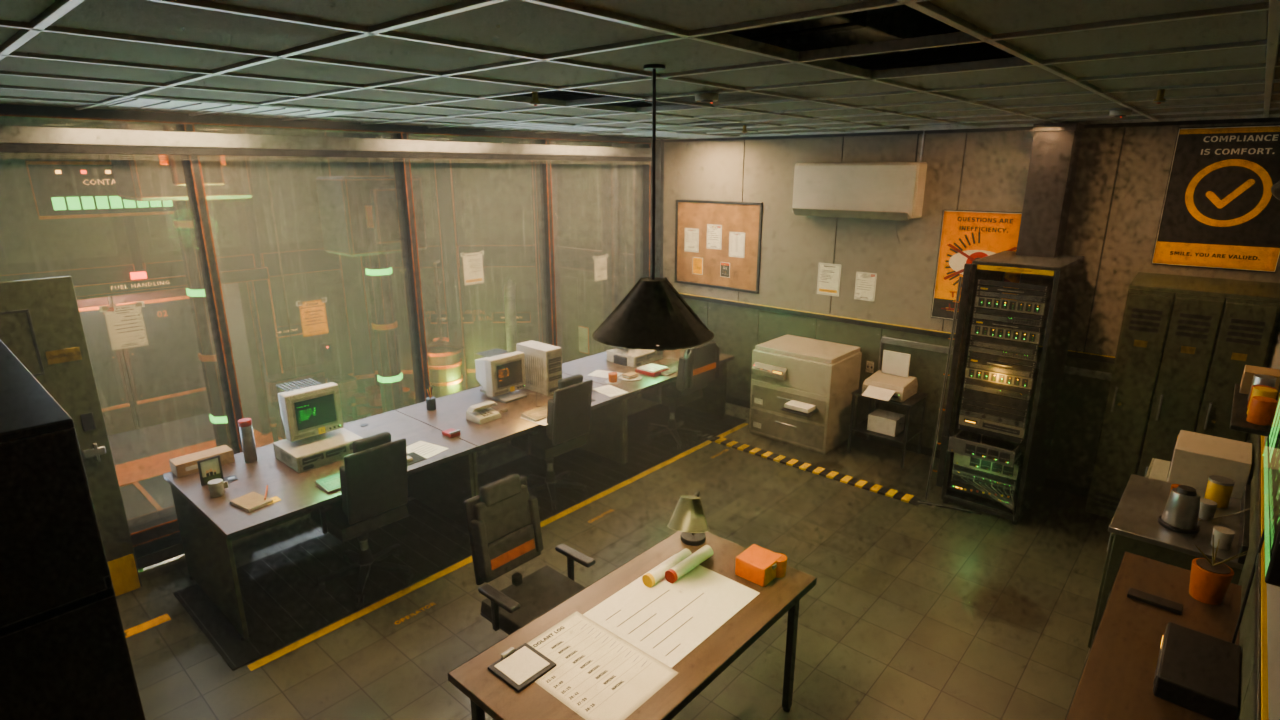
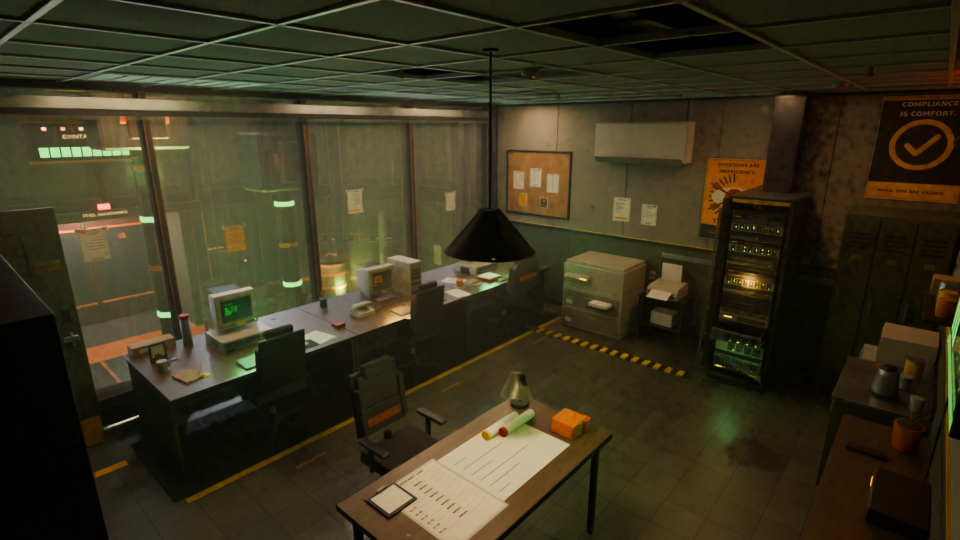
Control room: darker, eerier lighting with constant flicker and brownout dips (seconds based)
Claude-Session: https://claude.ai/code/session_01MZn6W3mktoSNAd4EhQyGwJ

diff --git a/sections/reactor-room/production/overhaul-R1/scripts/cr_light.py b/sections/reactor-room/production/overhaul-R1/scripts/cr_light.py
@@ -14,28 +14,27 @@ def beacons(c):
         if face=='+x': A.prism((g,"BEACON"),(p+0.025,l_,z),(p+0.105,l_,z),0.055,0.045,24,0,True); loc=(p+0.14,l_,z)
         else: A.prism((g,"BEACON"),(l_,p+0.025,z),(l_,p+0.105,z),0.055,0.045,24,0,True); loc=(l_,p+0.14,z)
         A.prism((g,"STEEL"),(loc[0]-(0.135 if face=='+x' else 0),loc[1]-(0.135 if face=='+y' else 0),loc[2]-0.06),(loc[0]-(0.135 if face=='+x' else 0),loc[1]-(0.135 if face=='+y' else 0),loc[2]+0.06),0.004,0.004,6) if False else None
-        ex="45*max(0,(0.5-s)*2)*(0.35+0.65*max(0,sin(frame*0.45)))"
+        ex="40*max(0.15,(0.5-s)*2)*(0.35+0.65*max(0,sin(frame*0.45)))"
         crk.light(co,f"CR beacon {face}",loc,(1.0,0.10,0.04),45,'POINT',soft=0.05,expr=ex,var_s=True)
 def build(c):
     co=c.coll; L=crk.light
     # key zone 1: three troffers over the operator desks (third tube is dying)
-    F="max(0,sin(frame*2.7)*sin(frame*0.53)*sin(frame*0.19+1)-0.42)*3.0"
     for (x,fl) in ((-3.0,False),(-0.6,False),(1.2,True)):                      # key zone 1: troffers follow the reactor (stability s): dimmer and stuttering as it falls
-        e=(f"{K.get('troffer',68)}*(0.55+0.45*s)*max(0.03,1-(0.85+0.15*(1-s))*{F})" if fl else f"{K.get('troffer',68)}*(0.55+0.45*s)*max(0.04,1-0.9*(1-s)*{F})")
-        L(co,f"CR troffer {x}",(x,-7.06,8.47),WARM,K.get("troffer",68),'AREA',DOWN,size=(1.15,0.55),expr=e,var_s=True)
+        e=(f"{K.get('troffer',32)}*(0.5+0.3*s)*max(0.03,1-(0.85+0.15*(1-s))*fk)*(1-0.7*bw)" if fl else f"{K.get('troffer',32)}*(0.5+0.3*s)*max(0.04,1-0.9*max(0.4,1-s)*fk)*(1-0.7*bw)")
+        L(co,f"CR troffer {x}",(x,-7.06,8.47),WARM,K.get("troffer",32),'AREA',DOWN,size=(1.15,0.55),expr=e,var_s=True)
     # key zone 2: rack batten + pendant over the work table
-    L(co,"CR rack batten",(1.25,-10.3,8.47),WARM2,K.get("rack",62),'AREA',DOWN,size=(1.1,0.16))
+    L(co,"CR rack batten",(1.25,-10.3,8.47),WARM2,K.get("rack",30),'AREA',DOWN,size=(1.1,0.16),expr="%s*(1-0.6*fk*0.5)*(1-0.6*bw)"%K.get("rack",30),var_s=False)
     px,py,pz=c.PENDANT
-    wp=L(co,"CR work pendant",(px,py,pz-0.004),WARM,K.get("pendant",36),'AREA',DOWN,size=(0.45,0.45)); wp.data.shape='DISK'       # disc light at the diffuser (a small spot here sparkled)
-    L(co,"CR work lamp",c.WORKLAMP,WARM,K.get("worklamp",25),'SPOT',(math.radians(160),0,math.radians(30)),spot=70,blend=0.6,soft=0.03)
-    L(co,"CR desk lamp",c.DESKLAMP,WARM,K.get("desklamp",35),'SPOT',(math.radians(150),0,math.radians(-30)),spot=75,blend=0.6,soft=0.03)
+    wp=L(co,"CR work pendant",(px,py,pz-0.004),WARM,K.get("pendant",20),'AREA',DOWN,size=(0.45,0.45)); wp.data.shape='DISK'       # disc light at the diffuser (a small spot here sparkled)
+    L(co,"CR work lamp",c.WORKLAMP,WARM,K.get("worklamp",22),'SPOT',(math.radians(160),0,math.radians(30)),spot=70,blend=0.6,soft=0.03)
+    L(co,"CR desk lamp",c.DESKLAMP,WARM,K.get("desklamp",30),'SPOT',(math.radians(150),0,math.radians(-30)),spot=75,blend=0.6,soft=0.03)
     # cool window spill + door spill from the landing
-    L(co,"CR window spill",(-1.4,-6.35,7.2),COOL,K.get("window",72),'AREA',(-math.pi/2,0,0),size=(5.4,2.2))
-    L(co,"CR door spill",(-5.15,-6.8,6.7),COOL,K.get("door",28),'AREA',(0,math.pi/2,0),size=(0.9,1.8))
+    L(co,"CR window spill",(-1.4,-6.35,7.2),COOL,K.get("window",26),'AREA',(-math.pi/2,0,0),size=(5.4,2.2))
+    L(co,"CR door spill",(-5.15,-6.8,6.7),COOL,K.get("door",12),'AREA',(0,math.pi/2,0),size=(0.9,1.8))
     # low warm bounce so far corners stay readable (but darker)
-    L(co,"CR back fill",(-1.4,-10.3,8.4),WARM,K.get("fill",4.8),'AREA',DOWN,size=(5.0,2.4))
+    L(co,"CR back fill",(-1.4,-10.3,8.4),WARM,K.get("fill",1.0),'AREA',DOWN,size=(5.0,2.4))
     # accents: CRT phosphor glows and rack LEDs
     for cx,col in ((-2.75,(0.2,1.0,0.3)),(-1.05,(1.0,0.55,0.1)),(0.65,(0.2,1.0,0.3))):
-        L(co,f"CR crt glow {cx}",(cx,-7.15,6.50),col,K.get("crt",7),'AREA',(-math.pi/2,0,0),size=(0.30,0.22),expr="7*(0.92+0.08*sin(frame*1.7))")
+        L(co,f"CR crt glow {cx}",(cx,-7.15,6.50),col,K.get("crt",7),'AREA',(-math.pi/2,0,0),size=(0.30,0.22),expr="7*(0.92+0.08*sin(frame*1.7))*(1-0.5*bw)")
     L(co,"CR rack glow low",(0.98,-10.35,5.95),(0.3,1.0,0.35),K.get("rackglow",3.0),'POINT',soft=0.05)
     L(co,"CR rack glow mid",(0.98,-10.35,6.60),(1.0,0.55,0.12),K.get("rackglow",3.0),'POINT',soft=0.05)

diff --git a/sections/reactor-room/production/overhaul-R1/scripts/cr_mats.py b/sections/reactor-room/production/overhaul-R1/scripts/cr_mats.py
@@ -67,19 +67,18 @@ def make(R):
     M["LED_ON"]=emit_mat("CR led steady green",(0.12,1.0,0.16),3.0)
     M["LED_AON"]=emit_mat("CR led steady amber",(1.0,0.50,0.04),3.0)
     M["LED_RON"]=emit_mat("CR led steady red",(1.0,0.06,0.04),3.0)
-    M["TUBE"]=emit_mat("CR tungsten tube",(1.0,0.66,0.34),7.0,TUBE_EXPR,use_s=True)
-    M["TUBE_F"]=emit_mat("CR tungsten tube dying",(1.0,0.66,0.34),7.0,TUBE_EXPR_DYING,use_s=True)
+    M["TUBE"]=emit_mat("CR tungsten tube",(1.0,0.66,0.34),5.0,TUBE_EXPR,use_s=True)
+    M["TUBE_F"]=emit_mat("CR tungsten tube dying",(1.0,0.66,0.34),5.0,TUBE_EXPR_DYING,use_s=True)
     M["BEACON"]=emit_mat("CR emergency beacon",(1.0,0.10,0.04),9.0,BEACON_EXPR,base=(0.12,0.01,0.01),use_s=True)
     M["TUBE_OFF"]=pm("CR tube dead",(0.30,0.28,0.22),0.4,scale=2.0,bump=0.0)
     M["BULB"]=emit_mat("CR bulb",(1.0,0.66,0.32),9.0)
     M["LAMPFACE"]=emit_mat("CR panel light",(1.0,0.72,0.44),1.6)
     return M
 # troffers follow the reactor: steady tubes dim and stutter as stability falls; the dying tube is always unreliable and gets worse
-_F="max(0,sin(frame*2.7)*sin(frame*0.53)*sin(frame*0.19+1)-0.42)*3.0"
-TUBE_EXPR=f"7.0*(0.55+0.45*s)*max(0.04,1-0.9*(1-s)*{_F})"
-TUBE_EXPR_DYING=f"7.0*(0.55+0.45*s)*max(0.03,1-(0.85+0.15*(1-s))*{_F})"
-BEACON_EXPR="9.0*max(0,(0.5-s)*2)*(0.35+0.65*max(0,sin(frame*0.45)))"
-FLICKER="7.0*(1-0.85*max(0,sin(frame*2.7)*sin(frame*0.53)*sin(frame*0.19+1)-0.42)*3.0)"
+TUBE_EXPR="5.0*(0.5+0.3*s)*max(0.04,1-0.9*max(0.4,1-s)*fk)*(1-0.7*bw)"
+TUBE_EXPR_DYING="5.0*(0.5+0.3*s)*max(0.03,1-(0.85+0.15*(1-s))*fk)*(1-0.7*bw)"
+BEACON_EXPR="9.0*max(0.15,(0.5-s)*2)*(0.35+0.65*max(0,sin(frame*0.45)))"
+FLICKER="7.0*(1-0.85*fk)"
 def _blink(R):
     a,b,p,q=R.uniform(0.35,1.6),R.uniform(0.11,0.6),R.uniform(0,6.3),R.uniform(0,6.3)
     return f"4.5*max(0.03,min(1.0,(sin(frame*{a:.3f}+{p:.2f})+sin(frame*{b:.3f}+{q:.2f}))*3.2-1.6))"

diff --git a/sections/reactor-room/production/overhaul-R1/scripts/crk.py b/sections/reactor-room/production/overhaul-R1/scripts/crk.py
@@ -218,6 +218,14 @@ def to_seconds(expr):
     import re
     e=re.sub(r'\bframe\b','(T*30)',expr)
     return re.sub(r'\bT\b','(frame*fb/fps)',e)
+import re
+def setup_flicker():
+    """two shared time signals on REACTOR_STATE: cr_flick (fast tube stutter bursts) and cr_brown (slow brownout dips, ~0..1); both in seconds"""
+    for nm,ex in (("cr_flick","max(0,sin(T*81)*sin(T*15.9)*sin(T*5.7+1)-0.42)*3"),("cr_brown","max(0,sin(T*2.1)*sin(T*5.3+1)-0.45)*1.8")):
+        STATE[nm]=0.0
+        try: STATE.driver_remove('["%s"]'%nm)
+        except Exception: pass
+        drv(STATE,'["%s"]'%nm,None,ex,var_s=False)
 def drv(idblock,path,idx,expr,var_s=True,extra=None):
     fc=idblock.driver_add(path,idx) if idx is not None else idblock.driver_add(path)
     d=fc.driver; d.type='SCRIPTED'
@@ -225,6 +233,9 @@ def drv(idblock,path,idx,expr,var_s=True,extra=None):
         v=d.variables.new(); v.name='s'; v.type='SINGLE_PROP'; v.targets[0].id=STATE; v.targets[0].data_path='["stability"]'
     for (nm,ident,dp) in (extra or []):
         v=d.variables.new(); v.name=nm; v.type='SINGLE_PROP'; v.targets[0].id=ident; v.targets[0].data_path=dp
+    for nm,pr in (("fk","cr_flick"),("bw","cr_brown")):          # shared flicker / brownout signals (props on REACTOR_STATE, see setup_flicker)
+        if re.search(r'\b%s\b'%nm,expr) and not any(v.name==nm for v in d.variables):
+            v=d.variables.new(); v.name=nm; v.type='SINGLE_PROP'; v.targets[0].id=STATE; v.targets[0].data_path='["%s"]'%pr
     ex=to_seconds(expr)
     if ex!=expr: _fps_vars(d)
     d.expression=ex; return fc

diff --git a/sections/reactor-room/production/overhaul-R1/scripts/cr_build.py b/sections/reactor-room/production/overhaul-R1/scripts/cr_build.py
@@ -6,7 +6,7 @@ import crk,crt,cr_pal,cr_mats,cr_shell,cr_desk,cr_props1,cr_props2,cr_tv,cr_ligh
 A_=sys.argv[sys.argv.index("--")+1:]; SRC,DST=A_[0],A_[1]; STAGE=A_[2] if len(A_)>2 else "all"
 bpy.ops.wm.open_mainfile(filepath=SRC); sc=bpy.context.scene
 print("PAL",cr_pal.retune())
-crk.STATE=bpy.data.objects["REACTOR_STATE"]
+crk.STATE=bpy.data.objects["REACTOR_STATE"]; crk.setup_flicker()
 def ext(o):
     p=[o.matrix_world@Vector(v) for v in o.bound_box]
     return (min(q.x for q in p),max(q.x for q in p),min(q.y for q in p),max(q.y for q in p),min(q.z for q in p),max(q.z for q in p))

diff --git a/sections/reactor-room/production/overhaul-R1/control_room_runtime_behaviour.md b/sections/reactor-room/production/overhaul-R1/control_room_runtime_behaviour.md
@@ -7,14 +7,15 @@ Generated by `cr_runtime_spec.py` from the authoring blend. Spec only: not an en
 
 | owner | target | expression (T in seconds) |
 |---|---|---|
-| CR beacon +x | `energy[0]` | `45*max(0,(0.5-s)*2)*(0.35+0.65*max(0,sin((T*30)*0.45)))` |
-| CR beacon +y | `energy[0]` | `45*max(0,(0.5-s)*2)*(0.35+0.65*max(0,sin((T*30)*0.45)))` |
-| CR crt glow -1.05 | `energy[0]` | `7*(0.92+0.08*sin((T*30)*1.7))` |
-| CR crt glow -2.75 | `energy[0]` | `7*(0.92+0.08*sin((T*30)*1.7))` |
-| CR crt glow 0.65 | `energy[0]` | `7*(0.92+0.08*sin((T*30)*1.7))` |
-| CR troffer -0.6 | `energy[0]` | `68*(0.55+0.45*s)*max(0.04,1-0.9*(1-s)*max(0,sin((T*30)*2.7)*sin((T*30)*0.53)*sin((T*30)*0.19+1)-0.42)*3.0)` |
-| CR troffer -3.0 | `energy[0]` | `68*(0.55+0.45*s)*max(0.04,1-0.9*(1-s)*max(0,sin((T*30)*2.7)*sin((T*30)*0.53)*sin((T*30)*0.19+1)-0.42)*3.0)` |
-| CR troffer 1.2 | `energy[0]` | `68*(0.55+0.45*s)*max(0.03,1-(0.85+0.15*(1-s))*max(0,sin((T*30)*2.7)*sin((T*30)*0.53)*sin((T*30)*0.19+1)-0.42)*3.0)` |
+| CR beacon +x | `energy[0]` | `40*max(0.15,(0.5-s)*2)*(0.35+0.65*max(0,sin((T*30)*0.45)))` |
+| CR beacon +y | `energy[0]` | `40*max(0.15,(0.5-s)*2)*(0.35+0.65*max(0,sin((T*30)*0.45)))` |
+| CR crt glow -1.05 | `energy[0]` | `7*(0.92+0.08*sin((T*30)*1.7))*(1-0.5*bw)` |
+| CR crt glow -2.75 | `energy[0]` | `7*(0.92+0.08*sin((T*30)*1.7))*(1-0.5*bw)` |
+| CR crt glow 0.65 | `energy[0]` | `7*(0.92+0.08*sin((T*30)*1.7))*(1-0.5*bw)` |
+| CR rack batten | `energy[0]` | `30*(1-0.6*fk*0.5)*(1-0.6*bw)` |
+| CR troffer -0.6 | `energy[0]` | `32*(0.5+0.3*s)*max(0.04,1-0.9*max(0.4,1-s)*fk)*(1-0.7*bw)` |
+| CR troffer -3.0 | `energy[0]` | `32*(0.5+0.3*s)*max(0.04,1-0.9*max(0.4,1-s)*fk)*(1-0.7*bw)` |
+| CR troffer 1.2 | `energy[0]` | `32*(0.5+0.3*s)*max(0.03,1-(0.85+0.15*(1-s))*fk)*(1-0.7*bw)` |
 | CR tv light | `color[0]` | `wt*(min(1,2*(1-s)+0.24))*0.95+wb*1.0+ws*0.78*0.95+wn*0.78+wc*cr` |
 | CR tv light | `color[1]` | `wt*(0.03+0.92*s)*0.95+wb*0.42+ws*0.88*0.95+wn*0.74+wc*cg` |
 | CR tv light | `color[2]` | `wt*(0.20*s)*0.95+wb*0.16+ws*1.0*0.95+wn*0.62+wc*cb` |
@@ -32,7 +33,7 @@ Generated by `cr_runtime_spec.py` from the authoring blend. Spec only: not an en
 | CR crt SCR1 | `nodes["Principled BSDF"].inputs["Emission Strength"].default_value[0]` | `2.2*(0.93+0.07*sin((T*30)*1.7+2.2)*sin((T*30)*0.31))` |
 | CR crt SCR2 | `nodes["Principled BSDF"].inputs["Emission Strength"].default_value[0]` | `2.2*(0.93+0.07*sin((T*30)*1.7+2.2)*sin((T*30)*0.31))` |
 | CR crt SCR3 | `nodes["Principled BSDF"].inputs["Emission Strength"].default_value[0]` | `2.2*(0.93+0.07*sin((T*30)*1.7+2.2)*sin((T*30)*0.31))` |
-| CR emergency beacon | `nodes["Principled BSDF"].inputs["Emission Strength"].default_value[0]` | `9.0*max(0,(0.5-s)*2)*(0.35+0.65*max(0,sin((T*30)*0.45)))` |
+| CR emergency beacon | `nodes["Principled BSDF"].inputs["Emission Strength"].default_value[0]` | `9.0*max(0.15,(0.5-s)*2)*(0.35+0.65*max(0,sin((T*30)*0.45)))` |
 | CR led amber 0 | `nodes["Principled BSDF"].inputs["Emission Strength"].default_value[0]` | `4.5*max(0.03,min(1.0,(sin((T*30)*1.440+0.31)+sin((T*30)*0.450+1.98))*3.2-1.6))` |
 | CR led amber 1 | `nodes["Principled BSDF"].inputs["Emission Strength"].default_value[0]` | `4.5*max(0.03,min(1.0,(sin((T*30)*0.515+6.09)+sin((T*30)*0.409+2.81))*3.2-1.6))` |
 | CR led amber 2 | `nodes["Principled BSDF"].inputs["Emission Strength"].default_value[0]` | `4.5*max(0.03,min(1.0,(sin((T*30)*1.272+5.26)+sin((T*30)*0.401+2.40))*3.2-1.6))` |
@@ -41,8 +42,8 @@ Generated by `cr_runtime_spec.py` from the authoring blend. Spec only: not an en
 | CR led green 1 | `nodes["Principled BSDF"].inputs["Emission Strength"].default_value[0]` | `4.5*max(0.03,min(1.0,(sin((T*30)*0.529+0.02)+sin((T*30)*0.155+3.93))*3.2-1.6))` |
 | CR led green 2 | `nodes["Principled BSDF"].inputs["Emission Strength"].default_value[0]` | `4.5*max(0.03,min(1.0,(sin((T*30)*1.204+4.72)+sin((T*30)*0.340+4.13))*3.2-1.6))` |
 | CR led green 3 | `nodes["Principled BSDF"].inputs["Emission Strength"].default_value[0]` | `4.5*max(0.03,min(1.0,(sin((T*30)*0.584+2.38)+sin((T*30)*0.443+1.80))*3.2-1.6))` |
-| CR tungsten tube | `nodes["Principled BSDF"].inputs["Emission Strength"].default_value[0]` | `7.0*(0.55+0.45*s)*max(0.04,1-0.9*(1-s)*max(0,sin((T*30)*2.7)*sin((T*30)*0.53)*sin((T*30)*0.19+1)-0.42)*3.0)` |
-| CR tungsten tube dying | `nodes["Principled BSDF"].inputs["Emission Strength"].default_value[0]` | `7.0*(0.55+0.45*s)*max(0.03,1-(0.85+0.15*(1-s))*max(0,sin((T*30)*2.7)*sin((T*30)*0.53)*sin((T*30)*0.19+1)-0.42)*3.0)` |
+| CR tungsten tube | `nodes["Principled BSDF"].inputs["Emission Strength"].default_value[0]` | `5.0*(0.5+0.3*s)*max(0.04,1-0.9*max(0.4,1-s)*fk)*(1-0.7*bw)` |
+| CR tungsten tube dying | `nodes["Principled BSDF"].inputs["Emission Strength"].default_value[0]` | `5.0*(0.5+0.3*s)*max(0.03,1-(0.85+0.15*(1-s))*fk)*(1-0.7*bw)` |
 | CR tv screen | `nodes["Value"].outputs[0].default_value[0]` | `min(1,2*(1-s)+0.24)` |
 | CR tv screen | `nodes["Value.001"].outputs[0].default_value[0]` | `0.03+0.92*s` |
 | CR tv screen | `nodes["Value.002"].outputs[0].default_value[0]` | `0.20*s` |
@@ -53,15 +54,16 @@ Generated by `cr_runtime_spec.py` from the authoring blend. Spec only: not an en
 | CR tv screen | `nodes["Value.006"].outputs[0].default_value[0]` | `w` |
 | CR tv screen | `nodes["Value.007"].outputs[0].default_value[0]` | `w` |
 | CR tv screen | `nodes["Principled BSDF"].inputs["Emission Strength"].default_value[0]` | `1.7*(0.96+0.04*sin((T*30)*3.1))` |
-| CR beacon +x | `energy[0]` | `45*max(0,(0.5-s)*2)*(0.35+0.65*max(0,sin((T*30)*0.45)))` |
-| CR beacon +y | `energy[0]` | `45*max(0,(0.5-s)*2)*(0.35+0.65*max(0,sin((T*30)*0.45)))` |
-| CR crt glow -1.05 | `energy[0]` | `7*(0.92+0.08*sin((T*30)*1.7))` |
-| CR crt glow -2.75 | `energy[0]` | `7*(0.92+0.08*sin((T*30)*1.7))` |
-| CR crt glow 0.65 | `energy[0]` | `7*(0.92+0.08*sin((T*30)*1.7))` |
-| CR troffer -0.6 | `energy[0]` | `68*(0.55+0.45*s)*max(0.04,1-0.9*(1-s)*max(0,sin((T*30)*2.7)*sin((T*30)*0.53)*sin((T*30)*0.19+1)-0.42)*3.0)` |
-| CR troffer -3.0 | `energy[0]` | `68*(0.55+0.45*s)*max(0.04,1-0.9*(1-s)*max(0,sin((T*30)*2.7)*sin((T*30)*0.53)*sin((T*30)*0.19+1)-0.42)*3.0)` |
-| CR troffer 1.2 | `energy[0]` | `68*(0.55+0.45*s)*max(0.03,1-(0.85+0.15*(1-s))*max(0,sin((T*30)*2.7)*sin((T*30)*0.53)*sin((T*30)*0.19+1)-0.42)*3.0)` |
-| CR tv light | `color[0]` | `wt*(min(1,2*(1-s)+0.24))*0.95+wb*1.0+ws*0.78*0.95+wn*0.78+wc*cr` |
-| CR tv light | `color[1]` | `wt*(0.03+0.92*s)*0.95+wb*0.42+ws*0.88*0.95+wn*0.74+wc*cg` |
-| CR tv light | `color[2]` | `wt*(0.20*s)*0.95+wb*0.16+ws*1.0*0.95+wn*0.62+wc*cb` |
-| CR tv light | `energy[0]` | `80*(wt*1.0+wb*1.25+ws*(0.55+0.55*abs(sin((T*30)*13.7)*sin((T*30)*5.9)))+wn*0.8+wc*ce)` |
+| CR beacon +x.001 | `energy[0]` | `40*max(0.15,(0.5-s)*2)*(0.35+0.65*max(0,sin((T*30)*0.45)))` |
+| CR beacon +y.001 | `energy[0]` | `40*max(0.15,(0.5-s)*2)*(0.35+0.65*max(0,sin((T*30)*0.45)))` |
+| CR crt glow -1.001 | `energy[0]` | `7*(0.92+0.08*sin((T*30)*1.7))*(1-0.5*bw)` |
+| CR crt glow -2.001 | `energy[0]` | `7*(0.92+0.08*sin((T*30)*1.7))*(1-0.5*bw)` |
+| CR crt glow 0.001 | `energy[0]` | `7*(0.92+0.08*sin((T*30)*1.7))*(1-0.5*bw)` |
+| CR rack batten.001 | `energy[0]` | `30*(1-0.6*fk*0.5)*(1-0.6*bw)` |
+| CR troffer -0.001 | `energy[0]` | `32*(0.5+0.3*s)*max(0.04,1-0.9*max(0.4,1-s)*fk)*(1-0.7*bw)` |
+| CR troffer -3.001 | `energy[0]` | `32*(0.5+0.3*s)*max(0.04,1-0.9*max(0.4,1-s)*fk)*(1-0.7*bw)` |
+| CR troffer 1.001 | `energy[0]` | `32*(0.5+0.3*s)*max(0.03,1-(0.85+0.15*(1-s))*fk)*(1-0.7*bw)` |
+| CR tv light.001 | `color[0]` | `wt*(min(1,2*(1-s)+0.24))*0.95+wb*1.0+ws*0.78*0.95+wn*0.78+wc*cr` |
+| CR tv light.001 | `color[1]` | `wt*(0.03+0.92*s)*0.95+wb*0.42+ws*0.88*0.95+wn*0.74+wc*cg` |
+| CR tv light.001 | `color[2]` | `wt*(0.20*s)*0.95+wb*0.16+ws*1.0*0.95+wn*0.62+wc*cb` |
+| CR tv light.001 | `energy[0]` | `80*(wt*1.0+wb*1.25+ws*(0.55+0.55*abs(sin((T*30)*13.7)*sin((T*30)*5.9)))+wn*0.8+wc*ce)` |
